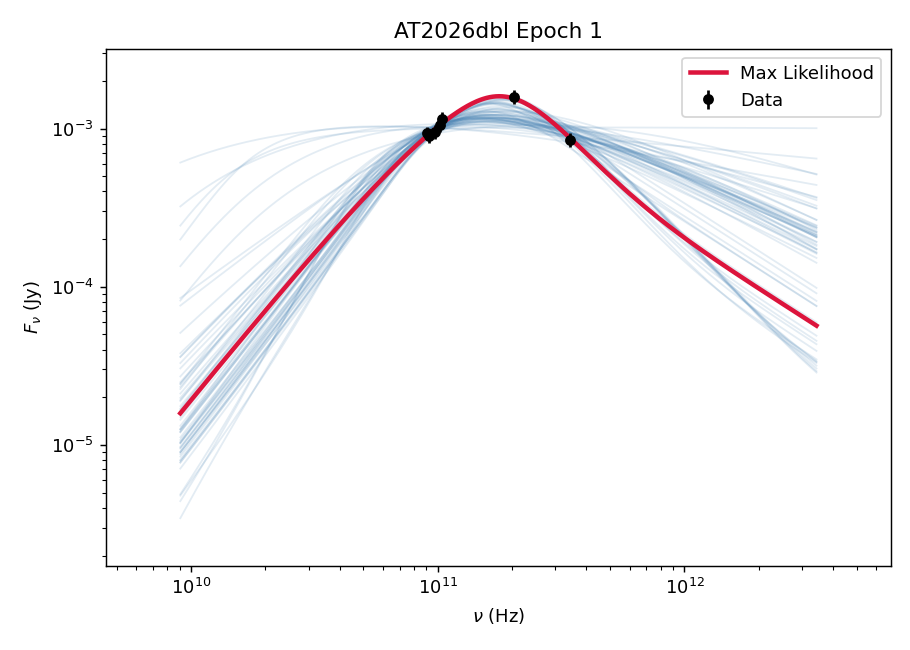
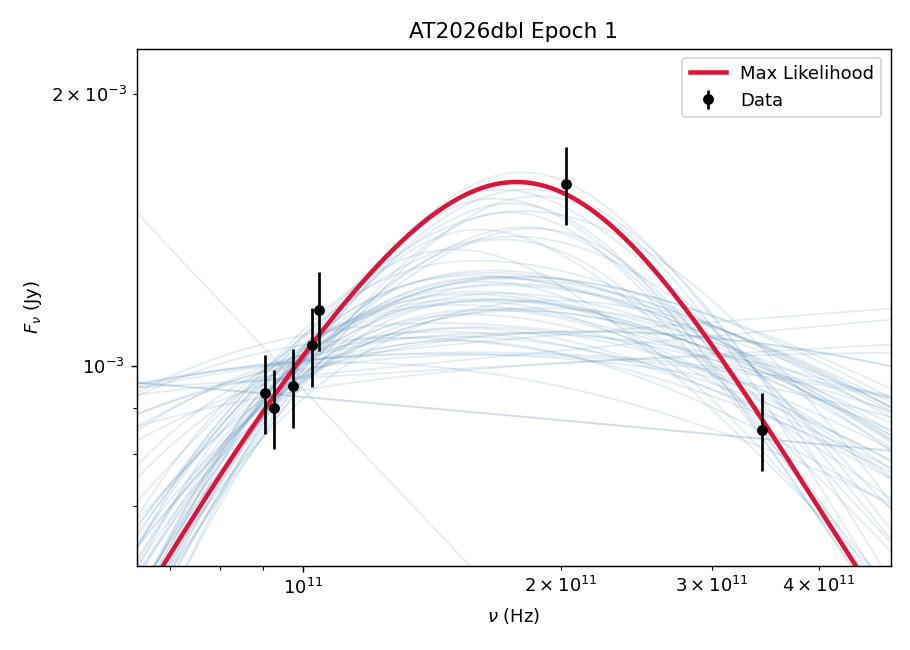
new plot revisions! 2

diff --git a/runSampler.py b/runSampler.py
@@ -142,6 +142,13 @@ PRIORS_DYNAMICAL = dict(
 SNR_THRESHOLD       = 3.0
 FLUX_ERR_FLOOR_FRAC = 0.10    # 10% error floor
 
+# --- SED plot axis padding: how far beyond the data's own min/max (in log10
+# decades) the displayed axis and evaluated fit curve extend on each side.
+# 0.15 dex ~= factor of 1.4 in frequency/flux -- "a little" beyond the data,
+# not a fixed multi-decade span. Same value drives both nu_grid's range and
+# the axis limits, so the lines always reach the plot edges (no dead margin).
+SED_PAD_DEX = 0.15
+
 # --- output ---
 OUTDIR  = "./mcmc_output"
 RUN_TAG = "1"            # subdirectory label, a la your old SLURM $DIR;
@@ -717,16 +724,21 @@ def save_chain_outputs(data_dir, plots_dir, tag, title_str, sampler, labels, T=N
 
 def plot_sed_fitted_R(plots_dir, tag, title_str, epoch_data, flat, flat_lp, fixed,
                        therm_el, pl_el, n_draws=60):
-    # Evaluate a bit wider than the data span so the curve visibly extends
-    # "to the left and right" of the fit; natural_xy_limits then trims the
-    # DISPLAYED window to where there's actually signal (+ padding), rather
-    # than a fixed multi-decade span.
+    # Axis limits (both grid AND display) come directly from the data's own
+    # min/max, padded by SED_PAD_DEX so the fit shows a little beyond the
+    # data on each side. nu_grid is generated over EXACTLY this same range,
+    # so the plotted lines reach the plot edges with no dead margin.
     freq_data = epoch_data["freq"]
-    nu_grid = np.logspace(np.log10(freq_data.min()) - 1.0,
-                           np.log10(freq_data.max()) + 1.0, 400)
+    flux_data = epoch_data["flux"]
+    log_flo, log_fhi = np.log10(freq_data.min()), np.log10(freq_data.max())
+    xlim = (10 ** (log_flo - SED_PAD_DEX), 10 ** (log_fhi + SED_PAD_DEX))
+    nu_grid = np.logspace(np.log10(xlim[0]), np.log10(xlim[1]), 400)
+
+    log_ylo, log_yhi = np.log10(flux_data.min()), np.log10(flux_data.max())
+    ylim = (10 ** (log_ylo - SED_PAD_DEX), 10 ** (log_yhi + SED_PAD_DEX))
 
     fig, ax = plt.subplots(figsize=(7, 5))
-    ax.errorbar(freq_data, epoch_data["flux"], yerr=epoch_data["eflux"],
+    ax.errorbar(freq_data, flux_data, yerr=epoch_data["eflux"],
                 fmt="o", ms=5, color="k", zorder=5, label="Data")
 
     # Blue curves = SEDs evaluated at `n_draws` random DRAWS FROM THE FULL
@@ -736,27 +748,21 @@ def plot_sed_fitted_R(plots_dir, tag, title_str, epoch_data, flat, flat_lp, fixe
     # denser/more-overlapping blue curves already reflect higher posterior
     # density -- no extra chi2 filtering needed on top.
     idx = np.random.choice(len(flat), size=min(n_draws, len(flat)), replace=False)
-    curves = []
     for i in idx:
         Fnu = _fnu_fitted_R(flat[i], nu_grid, epoch_data["T"], epoch_data["z"],
                              epoch_data["d_L"], fixed, therm_el, pl_el)
-        curves.append(Fnu)
         ax.plot(nu_grid, Fnu, color="steelblue", alpha=0.15, lw=1)
 
     best = flat[np.argmax(flat_lp)]
     Fnu_best = _fnu_fitted_R(best, nu_grid, epoch_data["T"], epoch_data["z"],
                               epoch_data["d_L"], fixed, therm_el, pl_el)
-    curves.append(Fnu_best)
     # NOTE: "Max Likelihood" and "MAP" are the same point here specifically
     # because the priors are flat/uniform within bounds (log_prior is a
     # constant wherever finite) -- if you ever switch to non-uniform
     # priors, these would no longer coincide and this label should change.
     ax.plot(nu_grid, Fnu_best, color="crimson", lw=2.5, label="Max Likelihood")
 
-    xlim, ylim = natural_xy_limits(nu_grid, curves, freq_data=freq_data,
-                                    flux_data=epoch_data["flux"])
     ax.set_xlim(xlim); ax.set_ylim(ylim)
-
     ax.set_xscale("log"); ax.set_yscale("log")
     ax.set_xlabel(r"$\nu$ (Hz)"); ax.set_ylabel(r"$F_\nu$ (Jy)")
     ax.set_title(title_str)
@@ -780,25 +786,26 @@ def plot_sed_dynamical(plots_dir, tag, title_str, epochs, flat, flat_lp, fixed,
     for k, ep in enumerate(epochs):
         ax = ax_flat[k]
         freq_data = ep["freq"]
-        nu_grid = np.logspace(np.log10(freq_data.min()) - 1.0,
-                               np.log10(freq_data.max()) + 1.0, 300)
-        ax.errorbar(freq_data, ep["flux"], yerr=ep["eflux"], fmt="o", ms=5,
+        flux_data = ep["flux"]
+        log_flo, log_fhi = np.log10(freq_data.min()), np.log10(freq_data.max())
+        xlim = (10 ** (log_flo - SED_PAD_DEX), 10 ** (log_fhi + SED_PAD_DEX))
+        nu_grid = np.logspace(np.log10(xlim[0]), np.log10(xlim[1]), 300)
+
+        log_ylo, log_yhi = np.log10(flux_data.min()), np.log10(flux_data.max())
+        ylim = (10 ** (log_ylo - SED_PAD_DEX), 10 ** (log_yhi + SED_PAD_DEX))
+
+        ax.errorbar(freq_data, flux_data, yerr=ep["eflux"], fmt="o", ms=5,
                     color="k", zorder=5)
-        curves = []
         # Blue curves here are also random draws from the joint posterior
         # (same note as plot_sed_fitted_R applies).
         for i in idx:
             Fnu = _fnu_dynamical(flat[i], nu_grid, ep["T"], ep["z"], ep["d_L"],
                                   fixed, therm_el, pl_el)
-            curves.append(Fnu)
             ax.plot(nu_grid, Fnu, color="steelblue", alpha=0.15, lw=1)
         Fnu_best = _fnu_dynamical(best, nu_grid, ep["T"], ep["z"], ep["d_L"],
                                    fixed, therm_el, pl_el)
-        curves.append(Fnu_best)
         ax.plot(nu_grid, Fnu_best, color="crimson", lw=2, label="Max Likelihood")
 
-        xlim, ylim = natural_xy_limits(nu_grid, curves, freq_data=freq_data,
-                                        flux_data=ep["flux"])
         ax.set_xlim(xlim); ax.set_ylim(ylim)
         ax.set_xscale("log"); ax.set_yscale("log")
         ax.set_title(f"epoch {ep['epoch']} | T={ep['T']:.1f}d")